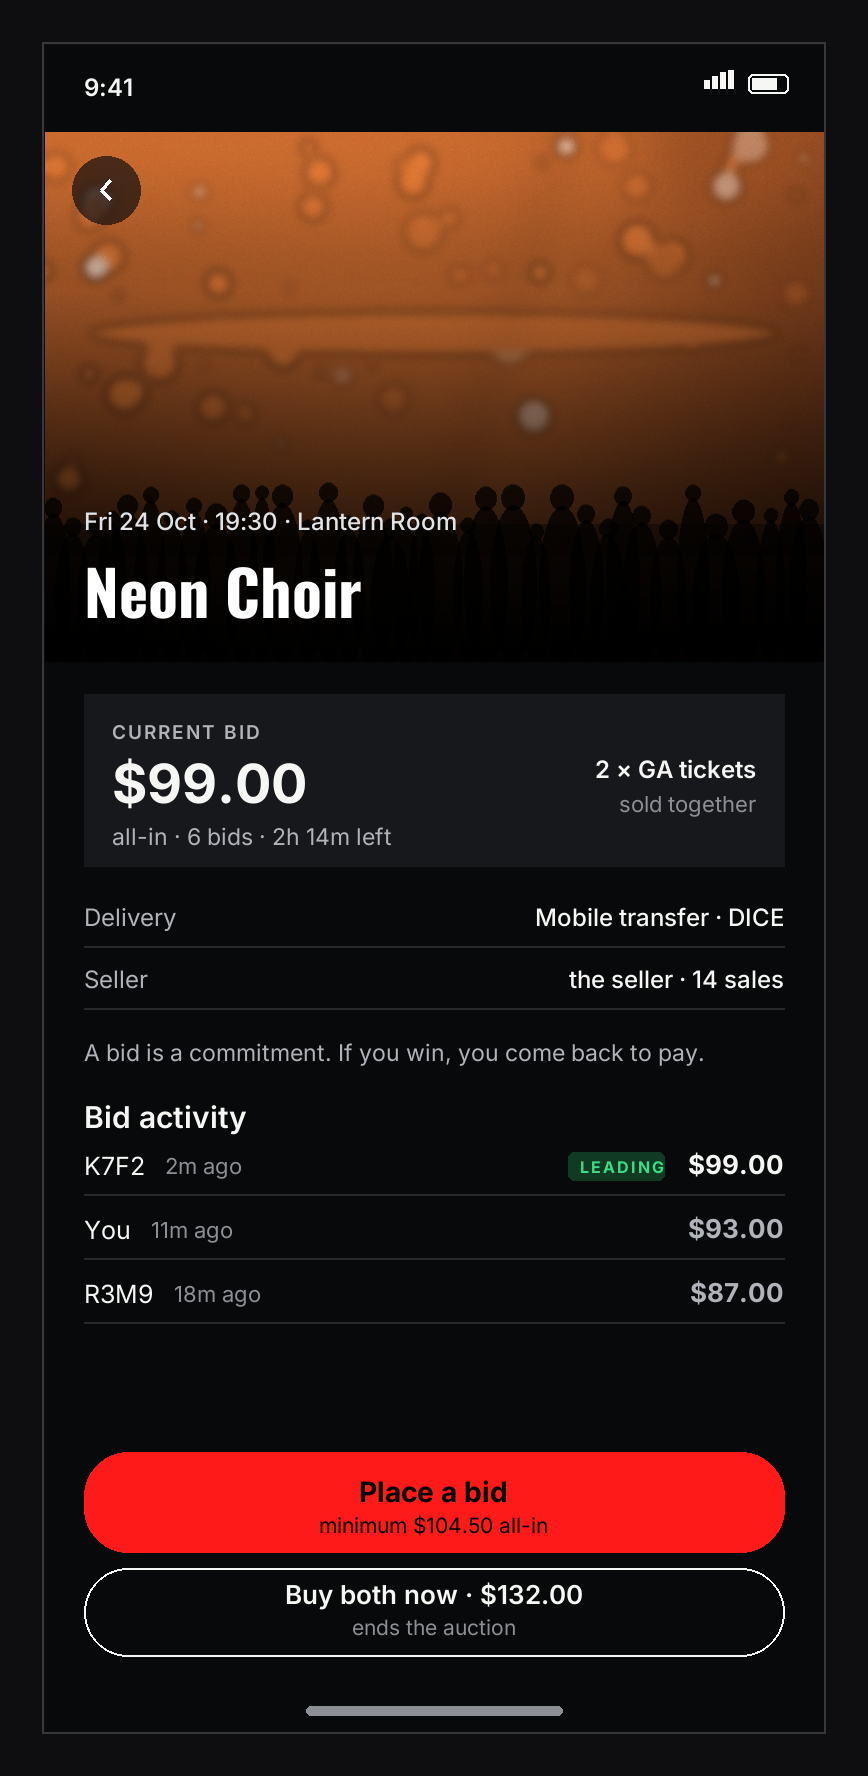
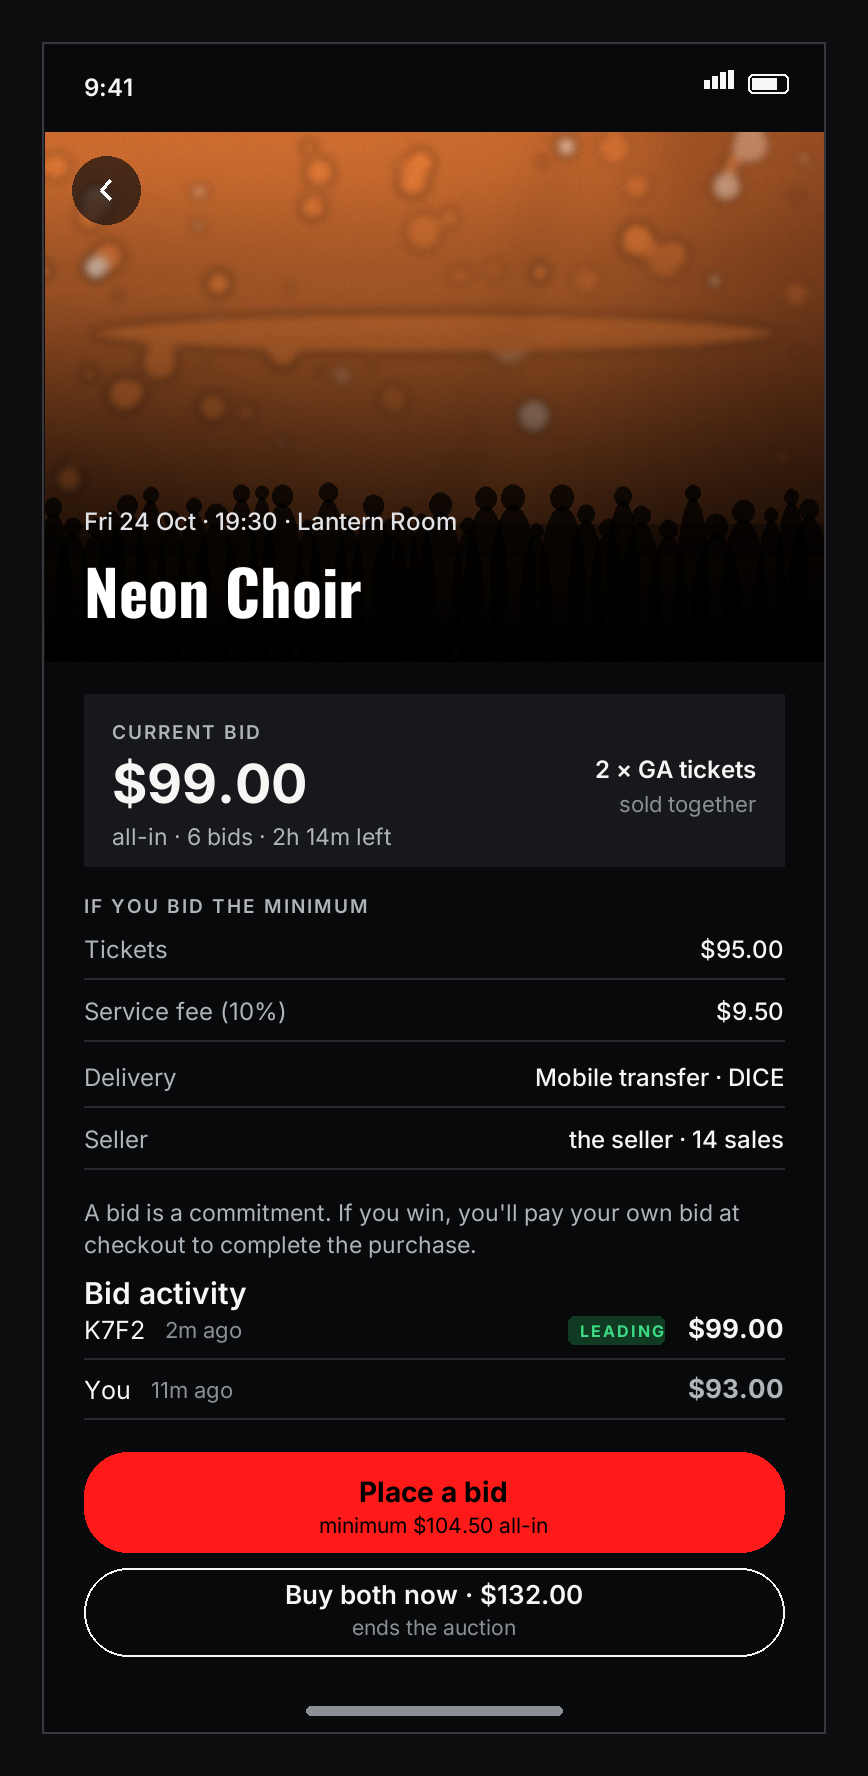
design(v3): review C's de-dup implementation at d8d7be1a; reconcile the boards
Reviewed against C's code, not their summary. C reached substantially the same
shape independently, proved zero gated-file contact, and killed 3/3 predicted
mutants.

THREE DUPLICATIONS C FOUND THAT MY SWEEP MISSED: FeedRow sold rows said "Sold"
twice; the checkout sentence under the Total row restated the two rows above
it; and "Current bid" claims someone has bid, so it becomes "Starting bid" at
zero. I have adopted the third.

THREE FINDINGS IN C'S BUILD:

R-1 (substantive) — mixed units make the buyer's bid look LOWER than the
current bid. The reference renders all-in ("Current bid · $110.00 all-in" from
a $100 bid) while the stepper and the minimum are bids ($105). $105 beside $110
reads as a lower bid; it is not. Recommend stating the reference in bid terms.
This is the hazard my all-in comparison columns were guarding against — the
columns were the wrong fix, the hazard was real.

R-2 — on the listing the would-be total appears twice: the breakdown's total
row and the CTA sub-label. Drop the total row; the fee row is the fee
explanation and the control carries the total.

R-3 — "If you win / $115.50" can be read as "if you win $115.50". Recommend
"Total if you win".

ADOPTED FROM C OVER MY OWN: the payment sentence (it names where the charge
happens), BID_COMMITMENT_COPY, the Starting/Current bid switch, and the
retained listing breakdown — better than my deletion, because it keeps the fee
itemised where a buyer decides whether to engage at all. My boards are
[…]

diff --git a/docs/product-v3/V3_PACKAGE_7_REVIEW_OF_C_20260923.md b/docs/product-v3/V3_PACKAGE_7_REVIEW_OF_C_20260923.md
@@ -1,0 +1,102 @@
+# Package 7 — review of C's implementation at `d8d7be1a`
+
+**B · 2026-09-23.** C implemented the de-duplication in parallel, on `v3/midnight-app` @
+**`d8d7be1aa94570c6e9b924ff38360cff9241c811`**. **Reviewed against the code, not against C's summary.**
+
+C reached substantially the same shape I did, independently. Where we differ, this document says which
+version wins and why. **Design and implementation now agree.**
+
+---
+
+## 1 · What C shipped — verified in source
+
+| File | Change |
+|---|---|
+| `PlaceBidScreen.tsx` | −111 lines net of the clutter. `label="Place bid"` (`:348`), one reference line (`:260`), the stepper as the focus, `Minimum {min}` at the point of entry (`:316`), fee once (`:327`), the payment sentence (`:330`), total in the sticky `left` slot (`:340`) |
+| `TransactionPanel.tsx` | Breakdown de-duplicated: the duplicate total at the top of the block is gone, `Tickets (2 × GA)` → `Tickets`, and *"All prices include the 10% service fee."* removed — the fee row is the fee explanation |
+| `detailState.ts` | `BID_COMMITMENT_COPY` drops its two numbers |
+| `FeedRow.tsx` | Sold rows said **"Sold" twice** — the status line and the *"sold for, all-in"* caption |
+| `CheckoutNative.tsx` | The sentence under the Total row restated the two rows above it |
+| tests | Text pins updated in place; **3/3 mutants killed as predicted** (button-amount revert, auto-charge revert, total-beside-action removal) |
+
+**C proved zero gated-file contact** (`diff vs e079fcc1`: only round 1's already-flagged `signOut.ts +5`).
+That is the right evidence to volunteer and it was volunteered without being asked.
+
+### Three duplications C found that my sweep missed
+
+1. **`FeedRow` sold rows say "Sold" twice.** I swept the feed and did not catch it.
+2. **The checkout sentence under the Total row** restated the two rows above it.
+3. **`"Current bid"` vs `"Starting bid"` at zero bids** — *"current bid"* claims someone has bid. C carried
+   the card rule onto the bid screen. **I have adopted this.**
+
+---
+
+## 2 · Three findings in C's build
+
+### R-1 · Mixed units make the buyer's bid look *lower* than the current bid — substantive
+
+`PlaceBidScreen.tsx:260` renders the reference **all-in**:
+
+```
+Current bid · $110.00 all-in        ← allInFromDollars(current_bid = $100)
+      $105.00                       ← the stepper: a BID
+Minimum $105.00                     ← also a BID
+```
+
+**$105 next to $110 reads as a lower bid.** It is not: $105 beats the $100 current bid; the $110 is that same
+$100 plus the fee. The screen invites the buyer to compare two numbers that are not in the same unit.
+
+**Recommendation: state the reference in bid terms — `Current bid $100.00`.** Every figure the buyer
+manipulates on this screen is a bid; the one all-in figure is the total beside the button, already labelled.
+This is the single ambiguity my original all-in comparison columns were guarding against — the columns were
+the wrong fix, but the hazard was real.
+
+**Keep C's `Starting bid` / `Current bid` switch either way.**
+
+### R-2 · On the listing, the would-be total still appears twice
+
+`TransactionPanel.tsx:122` renders `nextBidAllIn` as the breakdown's total row, and the **CTA sub-label**
+(`ListingDetailScreen.tsx:1318`) states the same figure.
+
+**Recommendation: drop the breakdown's total row.** Keep `Tickets` + `Service fee (10%)` — the fee row is the
+fee explanation, exactly as C argued — and let the control carry the total. Each number then appears once.
+
+### R-3 · `If you win / $115.50` can be read as "if you win $115.50"
+
+The sticky kicker (`:339`) is *"If you win"* above the total.
+**Recommendation: `Total if you win`.** Two words, and the figure stops being ambiguous.
+
+---
+
+## 3 · Where I adopted C's version over my own
+
+| Item | Mine | C's — adopted |
+|---|---|---|
+| Bid-screen payment sentence | *"You're not charged now. If you win, you'll come back to pay."* | *"Nothing is charged now. If you win, you'll pay this total at checkout."* — **names where**, and ties to the adjacent total |
+| Listing commitment sentence | *"A bid is a commitment. If you win, you come back to pay."* | **`BID_COMMITMENT_COPY`** — *"A bid is a commitment. If you win, you'll pay your own bid at checkout to complete the purchase."* |
+| Listing breakdown | I deleted the whole block | **C keeps it, de-duplicated.** Better: it keeps the fee itemised where a buyer decides whether to engage at all. My boards now match C's block **minus its total row** (R-2) |
+| Zero-bid reference | *"Current bid"* always | **`Starting bid` when `bid_count === 0`** |
+
+**My boards are re-rendered to this reconciled shape.** `pkg7-bid-after*.png` and `pkg7-listing-after*.png`
+now show what C built, plus the three corrections above.
+
+---
+
+## 4 · What still stands from my side
+
+- **Bid-screen reference in bid terms** (R-1) — the one substantive disagreement.
+- The **contextual minimum**: `Minimum $95.00 · $5 steps` at the floor, `$5 steps` above it. C shows
+  `Minimum {min}` unconditionally; the step size is not stated. Minor, C's call.
+- The remaining increments C has not yet implemented: **your order** (increment 3), **create listing** and
+  **send transfer** (increment 4), **search** (increment 5), and **F-28**'s `StateBlock` title.
+
+---
+
+## 5 · Status
+
+| | |
+|---|---|
+| Designed | Increments 1–5, all surfaces swept |
+| Implemented on C's branch | Bid entry, listing, feed rows, checkout — at `d8d7be1a`. **Not shipped, not deployed** |
+| Reviewed | **This document.** 3 findings open with C |
+| Device-verified | **Nothing.** No build, no simulator, no production read |

diff --git a/docs/product-v3/V3_HANDOFF_INDEX.md b/docs/product-v3/V3_HANDOFF_INDEX.md
@@ -49,6 +49,7 @@ Re-pin both if either ref moves; every ① label is measured against these two c
 | **6** | Completion: Bids tab, role/action matrix, listing dialogs, 7 settings surfaces, system surfaces | `V3_PACKAGE_6_COMPLETION_FOR_C.md` | `pkg6-bids-*`, `pkg6-listing-action-matrix.png`, `pkg6-listing-dialogs.png`, `pkg6-settings-surfaces.png`, `pkg6-system-surfaces.png` | `c5c7282e` | ✅ ready — **superseded in two places by the freeze reconciliation** |
 | **FREEZE** | **Dialog-count and colour-semantics reconciliation** | **`V3_FREEZE_RECONCILIATION_20260922.md`** | `pkg6-listing-dialogs.png` and `pkg6-listing-action-matrix.png` **re-rendered** | **`77a122b4`** | ✅ **authoritative over Package 6 §2 and §3** |
 | **7** | **Copy and hierarchy correction (app-wide)** | `V3_PACKAGE_7_COPY_CORRECTION.md` | `pkg7-bid-comparison.png`, `pkg7-listing-checkout-comparison.png`, `pkg7-order-comparison.png`, `pkg7-selling-comparison.png`, + after/annotated sheets | `14a6c3e6` (bid) · `03dbc240` (listing+checkout) · `659465ba` (order) · `b24ad197` (create+send) · this commit (search + sweep) | ✅ **authoritative over packages 1–6 on copy** |
+| — | **Review of C's implementation** | `V3_PACKAGE_7_REVIEW_OF_C_20260923.md` | — | this commit | ⚠ **3 findings open with C** (R-1 mixed units on bid entry, R-2 total twice on listing, R-3 kicker) |
 | — | Coverage matrix (living) | `V3_COVERAGE_MATRIX.md` | — | reconciled `074776d0`, freeze update `77a122b4` | 🟡 living |
 | — | Findings register | `V3_FINDINGS_RECONCILED.md` | — | `a538e53b`, + F-25/F-26/F-27 in `77a122b4` | ✅ supersedes the matrix's own findings table |
 | — | **GAP AUDIT — read before claiming completion** | `V3_GAP_AUDIT.md` | — | `01822004`, `074776d0`, `c641c3c4`, `77a122b4` | ⛔ **3 cells blocked · 5 awaiting A/C · 8 device checks · nothing verified** |
